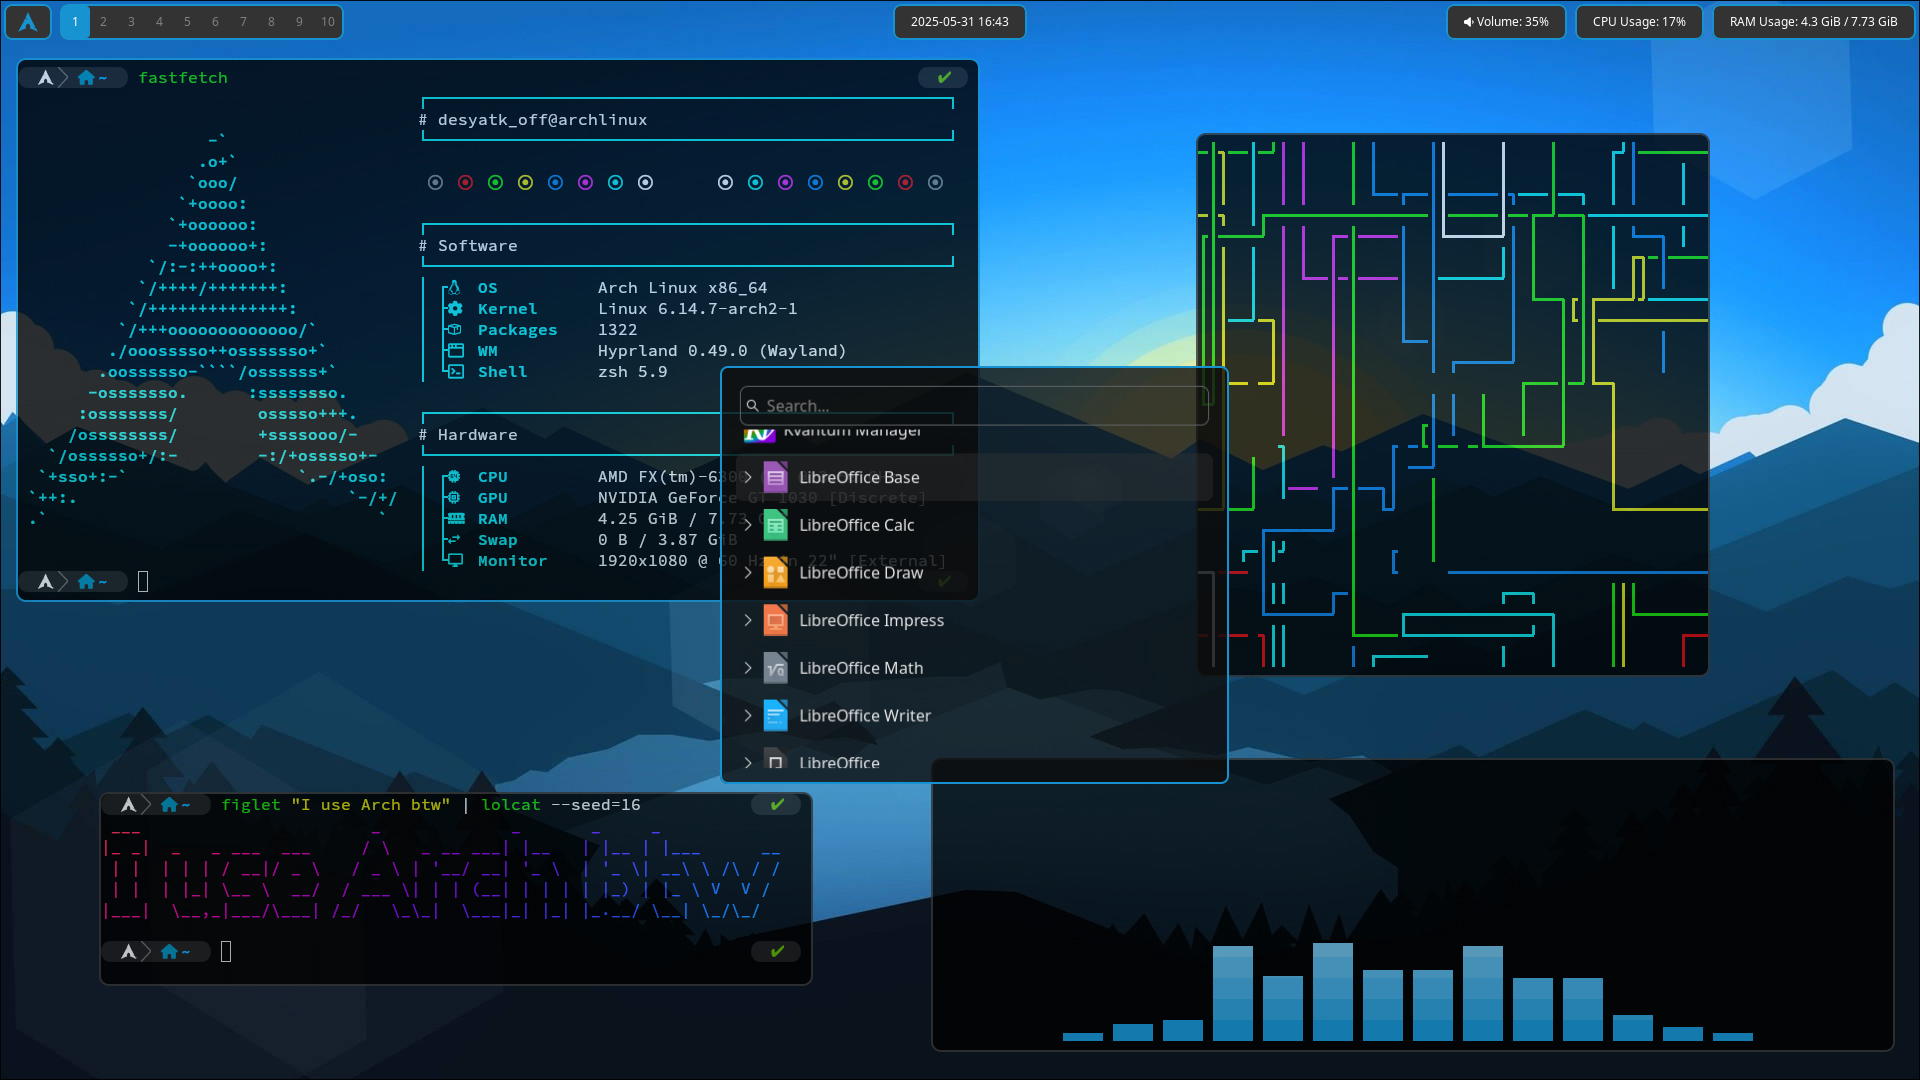
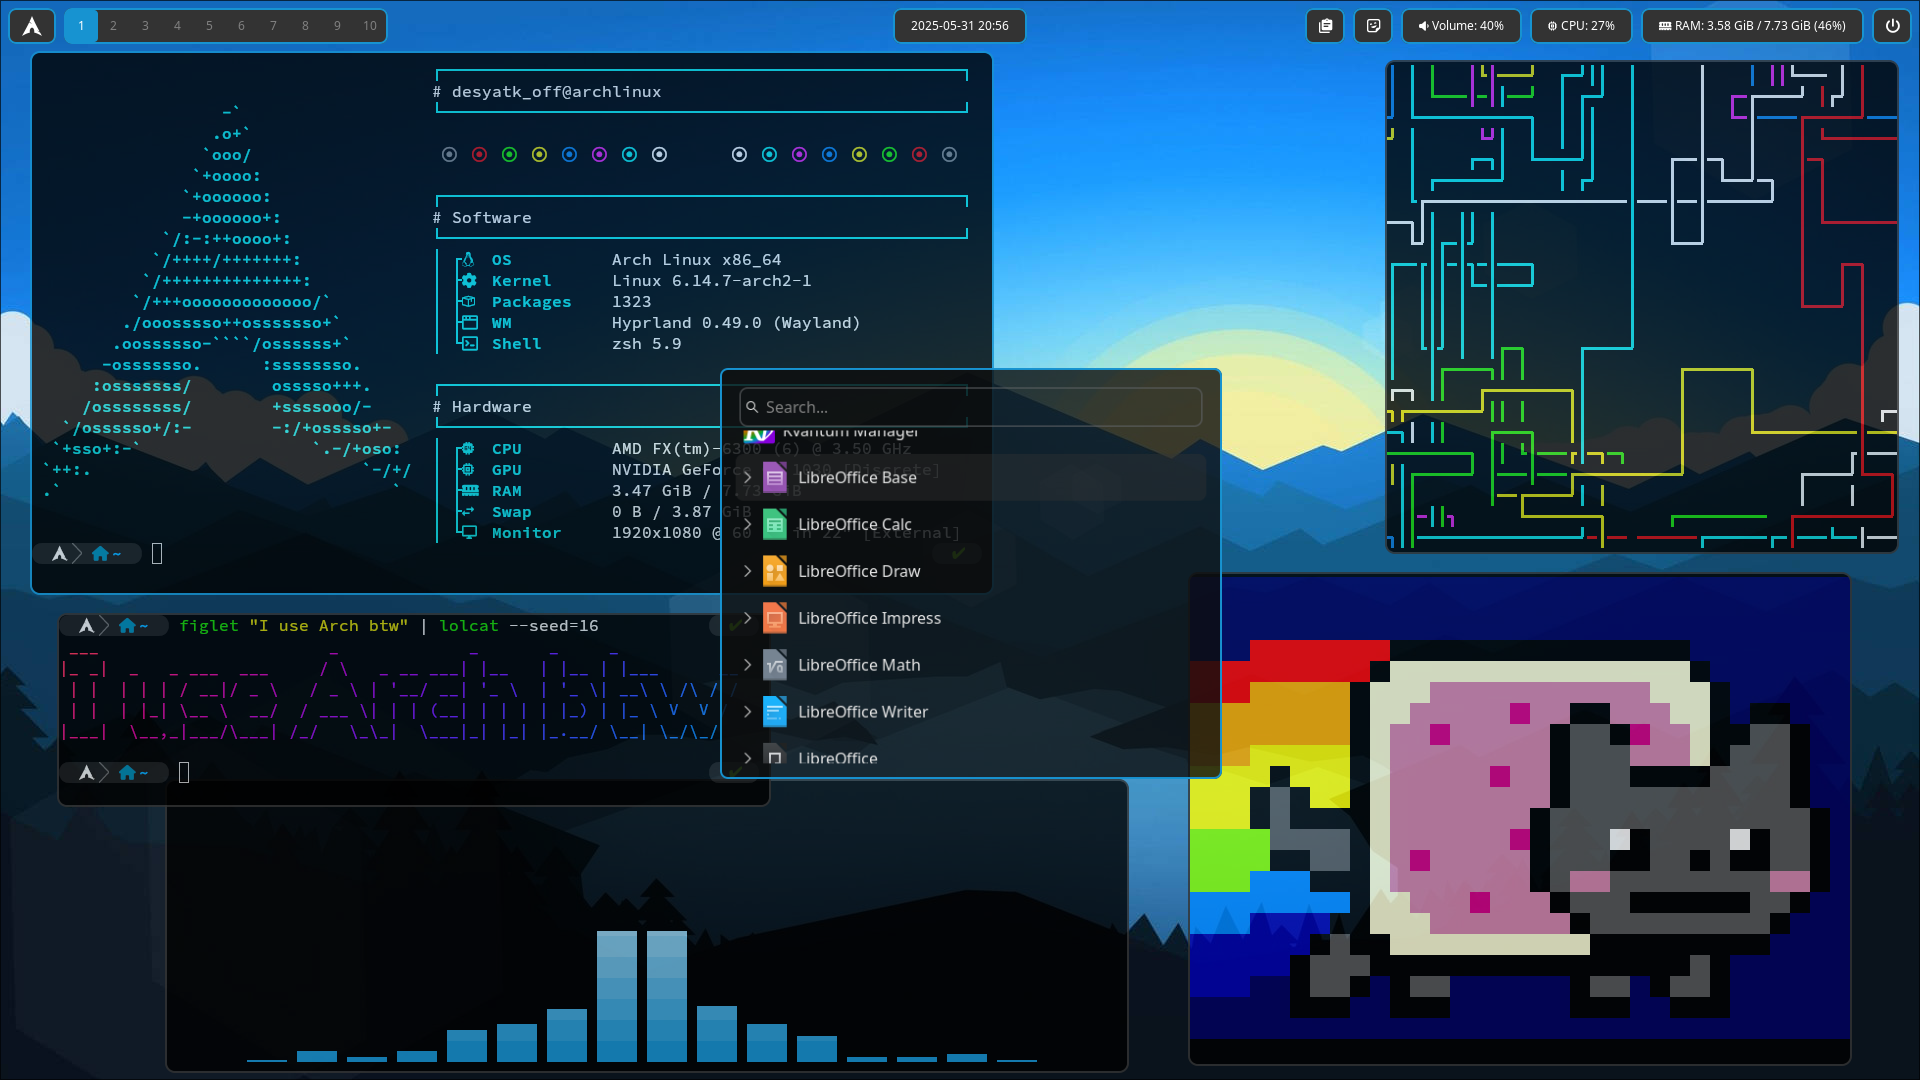
Update

diff --git a/waybar/style.css b/waybar/style.css
@@ -2,18 +2,18 @@
     border: none;
     font-size: 12px;
     border-radius: 0;
-    font-family: Noto Font;
+    font-family: "Noto Sans";
 }
 
 window#waybar {
     background: transparent;
 }
 
-#custom-menu {
+#custom-app-launcher {
+    color: #ffffff;
     font-size: 24px;
-    color: #1793d1;
-    margin-top: 4px;
-    margin-left: 4px;
+    margin-top: 8px;
+    margin-left: 8px;
     margin-right: 4px;
     padding-left: 12px;
     border-radius: 8px;
@@ -22,8 +22,12 @@ window#waybar {
     border: 2px solid #1793d1;
 }
 
+#custom-app-launcher:hover {
+    background: #1793d1;
+}
+
 #workspaces {
-    margin-top: 4px;
+    margin-top: 8px;
     margin-left: 4px;
     margin-right: 4px;
     border-radius: 8px;
@@ -33,8 +37,8 @@ window#waybar {
 
 #workspaces button {
     color: #ffffff;
-    min-width: 16px;
-    min-height: 16px;
+    min-width: 20px;
+    min-height: 20px;
     background: transparent;
 }
 
@@ -43,7 +47,7 @@ window#waybar {
 }
 
 #workspaces button:hover {
-    color: #ffffff;
+    color: #1793d1;
     box-shadow: inherit;
     text-shadow: inherit;
     border-radius: inherit;
@@ -57,7 +61,7 @@ window#waybar {
 
 #clock {
     color: #ffffff;
-    margin-top: 4px;
+    margin-top: 8px;
     margin-left: 4px;
     margin-right: 4px;
     padding-left: 16px;
@@ -65,11 +69,45 @@ window#waybar {
     background: #333333;
     padding-right: 16px;
     border: 2px solid #1793d1;
+}
+
+#custom-clipboard {
+    color: #ffffff;
+    font-size: 16px;
+    margin-top: 8px;
+    margin-left: 4px;
+    margin-right: 4px;
+    padding-left: 12px;
+    border-radius: 8px;
+    padding-right: 4px;
+    background: #333333;
+    border: 2px solid #1793d1;
+}
+
+#custom-clipboard:hover {
+    color: #1793d1;
+}
+
+#custom-emoji {
+    color: #ffffff;
+    font-size: 16px;
+    margin-top: 8px;
+    margin-left: 4px;
+    margin-right: 4px;
+    padding-left: 12px;
+    border-radius: 8px;
+    padding-right: 4px;
+    background: #333333;
+    border: 2px solid #1793d1;
+}
+
+#custom-emoji:hover {
+    color: #1793d1;
 }
 
 #pulseaudio {
     color: #ffffff;
-    margin-top: 4px;
+    margin-top: 8px;
     margin-left: 4px;
     margin-right: 4px;
     padding-left: 16px;
@@ -79,9 +117,13 @@ window#waybar {
     border: 2px solid #1793d1;
 }
 
+#pulseaudio:hover {
+    color: #1793d1;
+}
+
 #cpu {
     color: #ffffff;
-    margin-top: 4px;
+    margin-top: 8px;
     margin-left: 4px;
     margin-right: 4px;
     padding-left: 16px;
@@ -93,7 +135,7 @@ window#waybar {
 
 #memory {
     color: #ffffff;
-    margin-top: 4px;
+    margin-top: 8px;
     margin-left: 4px;
     margin-right: 4px;
     padding-left: 16px;
@@ -101,4 +143,21 @@ window#waybar {
     padding-right: 16px;
     background: #333333;
     border: 2px solid #1793d1;
+}
+
+#custom-exit {
+    color: #ffffff;
+    font-size: 16px;
+    margin-top: 8px;
+    margin-left: 4px;
+    margin-right: 8px;
+    padding-left: 12px;
+    border-radius: 8px;
+    padding-right: 4px;
+    background: #333333;
+    border: 2px solid #1793d1;
+}
+
+#custom-exit:hover {
+    color: #1793d1;
 }
